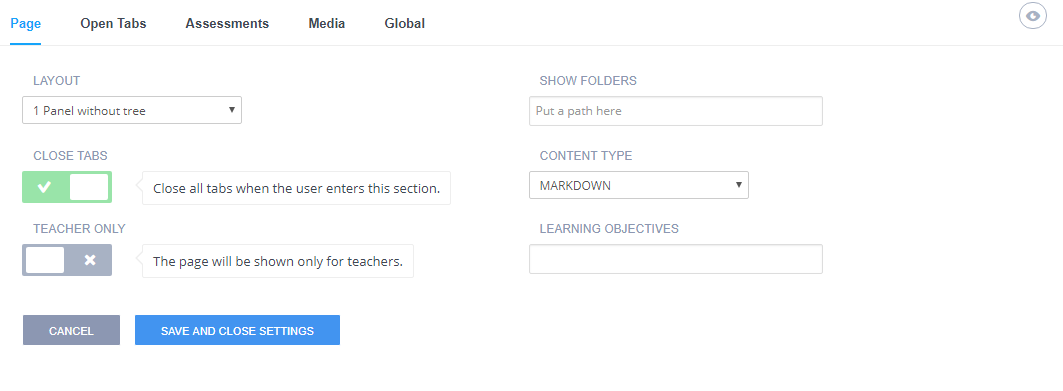
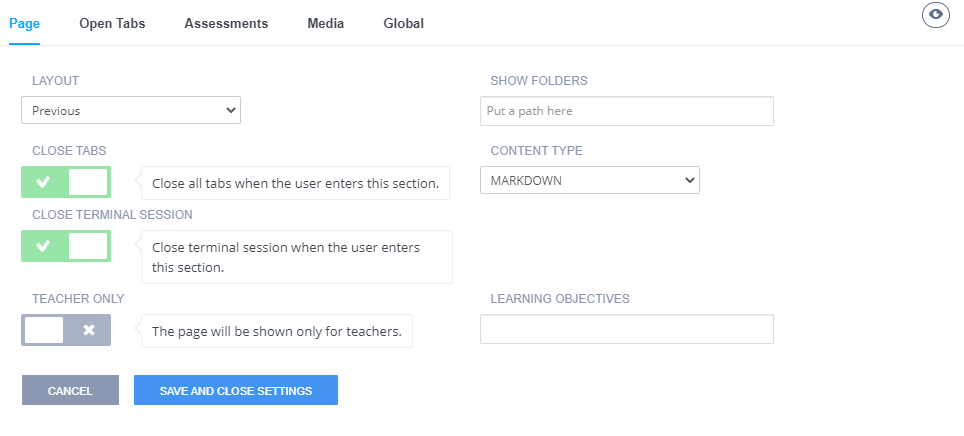
6may (#103)
* changelog #12507

* changelog #12574

* Update grading.md

diff --git a/docs/courses/authoring.md b/docs/courses/authoring.md
@@ -225,6 +225,7 @@ Editor settings gives you access to the key functions:
   - **[Layout](/courses/settings-actions/#page)** allows you to specify the panel layout you want to choose for this section,
   - **[Show Folders](/courses/authoring/#hiding-folders)** allows you to define specific folders in your project that you wish to be visible when the current section is displayed,
   - **[Close Tabs](/courses/authoring/#openclose-tabs-from-content)** allows you to close all tabs open from previous section,
+    - **Close Terminal Session** when Close tabs enabled, allows you the option to retain terminal session from previous section. By default, terminal session will close
   - **Set Section as Chapter** allows you to set the section as a chapter in your content,
   - **[Teacher Only](/courses/authoring/#teacher-only-content)** allows you to show content that only teachers are able to see.
   - **Content Type** allows you to write your content in either [Markdown](/courses/authoring/#markdown-content-editing) or [HTML](/courses/authoring/#html-content-editing)

diff --git a/docs/courses/grading.md b/docs/courses/grading.md
@@ -52,7 +52,7 @@ or you can export all the data from a course (including the students workspaces)
 
 ## Accessing student work
 
-As a teacher you have access to your students cloud area within Codio. This allows you to view and access any work your students have completed at any time. Where students assignments are completed and read only, you can enable writable mode to be able to make changes if necessary.  
+As a teacher you have access to your students cloud area within Codio. This allows you to view and access any work your students have completed at any time. You can enable writable mode at any time to be able to make changes without them affecting the students work. Any changes you may make will be discarded when you exit the assignment.
 
 1. From the **Courses** area, click on your course to open it.
 

diff --git a/docs/resources/changelog.md b/docs/resources/changelog.md
@@ -13,6 +13,8 @@ We do not report small bug fixes or issues that affect individual users, who we 
 
 **May 2021**
 
+- `[I] [ 6th]`: Improve [Close Tabs](courses/authoring/#page) to allow option to retain terminal session from previous sections
+- `[F] [ 5th]`: Add support for teachers to enable a [writable copy](/courses/grading/#accessing-student-work) of students work at any time
 - `[F] [ 4th]`: Add support for [Participation Grading](/courses/classes/#participation-grading)
 
 **April 2021**

diff --git a/docs/courses/settings-actions.md b/docs/courses/settings-actions.md
@@ -61,6 +61,8 @@ You should also be aware that you can achieve the same actions from Markdown dir
 ### Page - Close Tabs
 Enable this to close all panels open from the previous page.
 
+- **Close Terminal Session** when Close tabs enabled, allows you the option to retain terminal session from previous section. By default, terminal session will close
+
 ![Page_tab_options](/img/guides/page.png)
 
 <a name="opentabs"></a>
